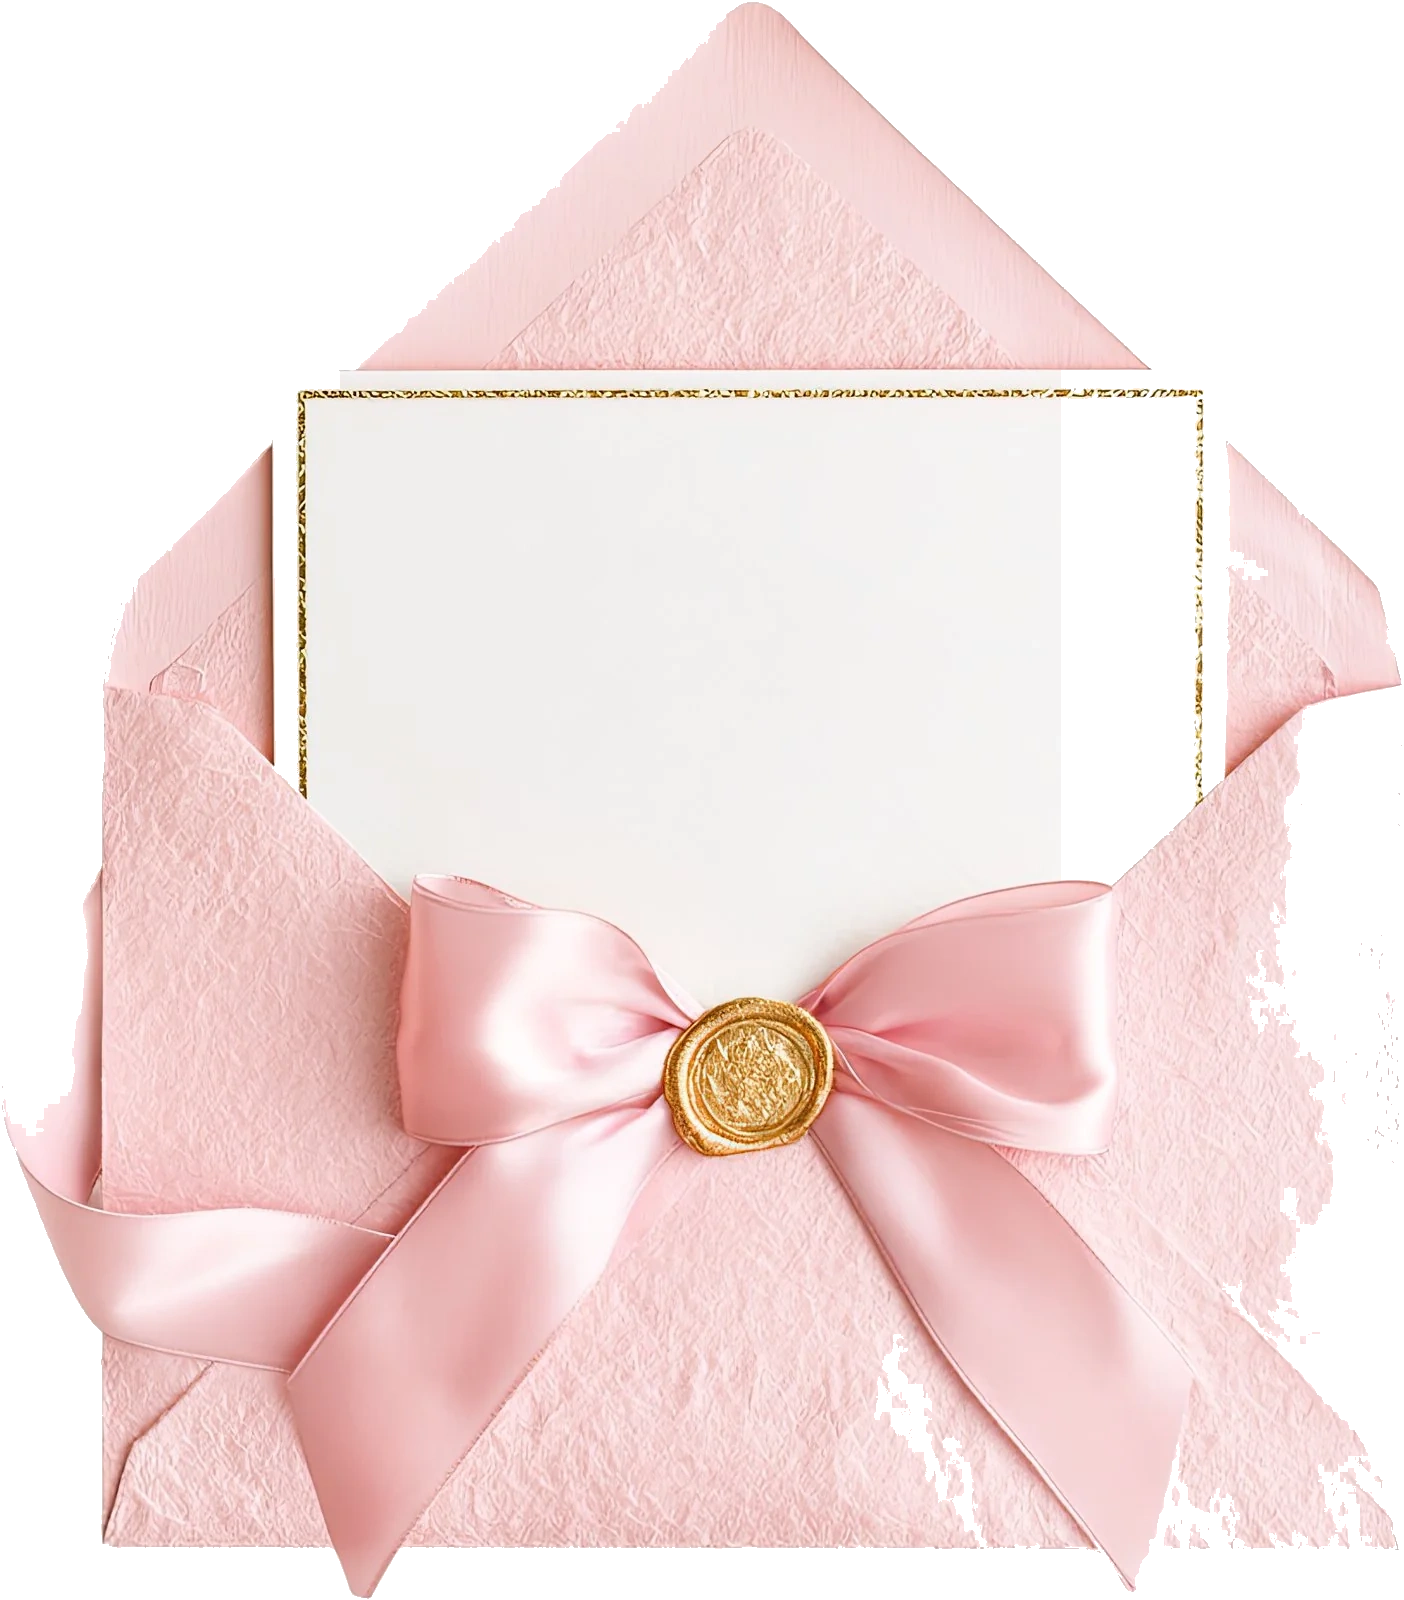
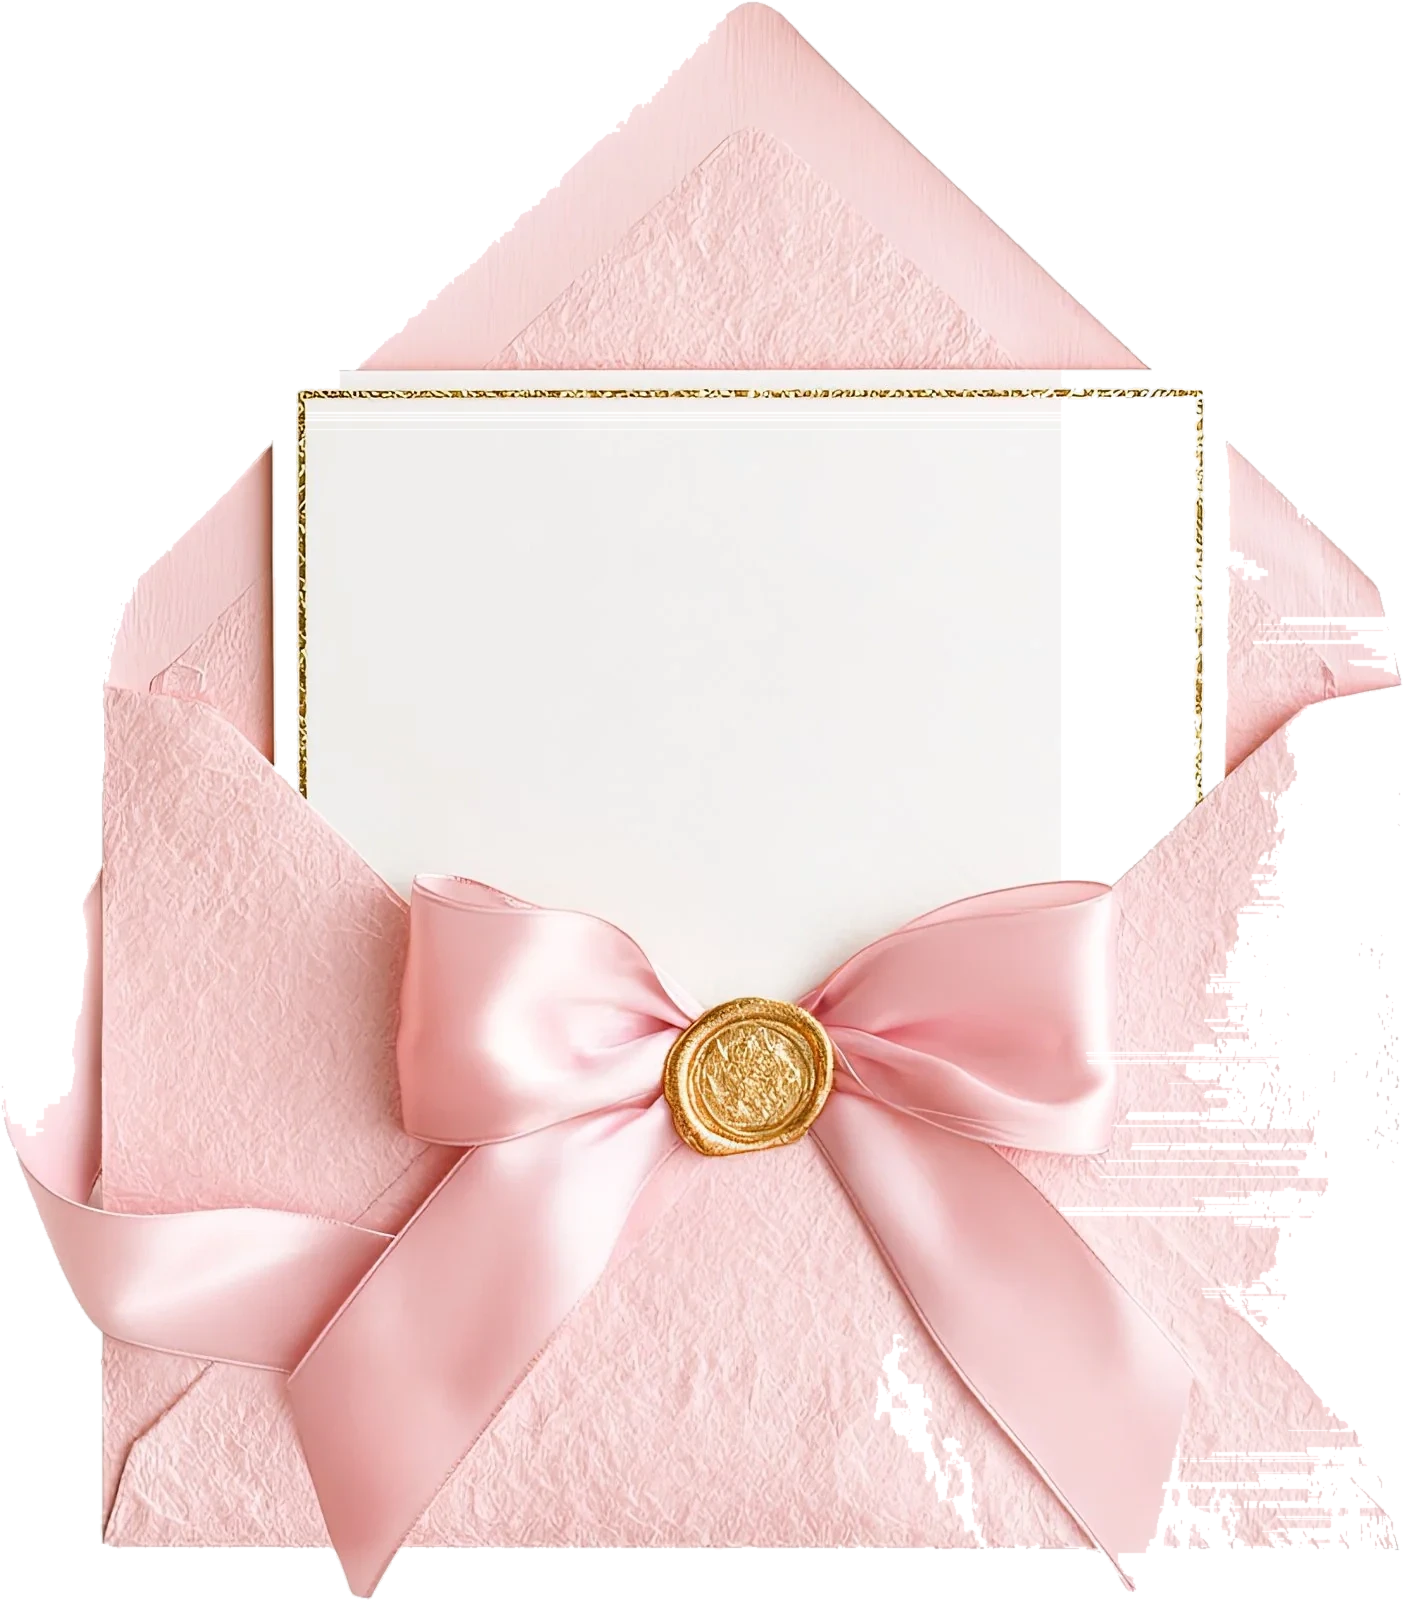
Blush Princess: quitar la franja blanca del sobre abierto (arte recortado limpio a rosa sólido), marco oval sin fondo blanco, y ancho real 520px (globals.css capaba en 500px)

diff --git a/src/app/globals.css b/src/app/globals.css
@@ -210,6 +210,13 @@ iframe::-webkit-scrollbar,
   margin: 0 auto !important;
 }
 
+/* Contenedor del sobre a 520px (la regla compartida lo capa en 500px) */
+.envelope-container,
+.envelope-wrapper,
+#envelopeContainer {
+  max-width: 520px !important;
+}
+
 .language-selector-container,
 .language-modal-box {
   background: transparent !important;
@@ -223,7 +230,7 @@ iframe::-webkit-scrollbar,
 .envelope-wrapper img,
 .envelope-container img {
   width: 100% !important;
-  max-width: 500px !important;
+  max-width: 520px !important;
   height: auto !important;
   display: block !important;
   margin: 0 auto !important;
